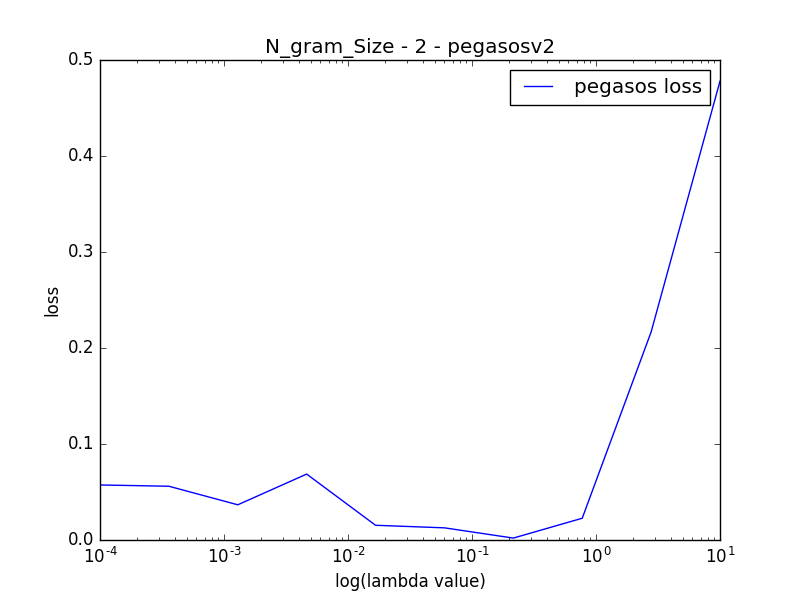
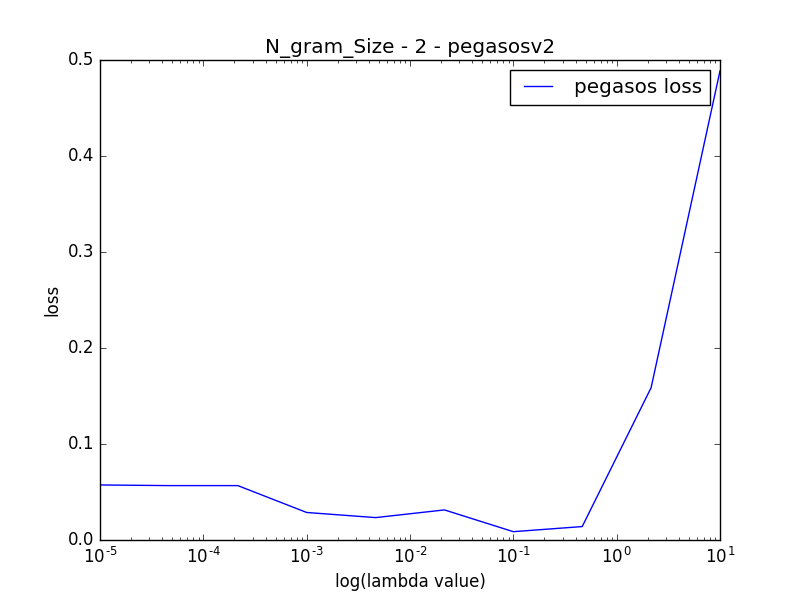
final submission

diff --git a/main.py b/main.py
@@ -10,7 +10,7 @@ def lambdaListBuider(num_lambdas):
     if num_lambdas == 1:
         return np.array([0.1])
     else:
-        lambda_reg_list = np.logspace(-1, 1, num_lambdas)
+        lambda_reg_list = np.logspace(-5, 1, num_lambdas)
         return np.array(lambda_reg_list)
 
 # Question 6.6
@@ -84,32 +84,39 @@ def compareprinter(weightsdictionary):
     for key in sorted(weightsdictionary)[:5]:
         print key, weightsdictionary[key]
 
-def runner(X_train, y_train, X_test, y_test, gram_size, num_lambdas, num_epochs, algo):
+def runner(X_train, y_train, X_test, y_test, gram_size, num_lambdas, num_epochs, algo, question):
     lambda_reg_list = lambdaListBuider(num_lambdas)
 
     # takes the data, algo type, and the parameters of the algo
     train_scores, w_list = testLambdaValues(X_train, y_train, lambda_reg_list, num_epochs, algo)
 
-    # Questin 6.5 - calculate the percent erro when predicting y using sign((w.T)x)
-    score_list = calcError(w_list, X_train, y_train)
-    for i in range(len(score_list)):
-        print "Lambda Value - ", lambda_reg_list[i], " the percent error was", score_list[i]
+    if question == "Question 8.1":
+        # Questin 6.5 - calculate the percent erro when predicting y using sign((w.T)x)
+        score_list = calcError(w_list, X_train, y_train)
+        for i in range(len(score_list)):
+            print "Lambda Value - ", lambda_reg_list[i], " the percent error was", score_list[i]
 
-    # Question 6.6 - searching for the best Lambda regularization value
-    bestLambda, bestw, min_Loss = getbestLambda_Thetas(score_list, lambda_reg_list, w_list)
+        # Question 6.6 - searching for the best Lambda regularization value
+        bestLambda, bestw, min_Loss = getbestLambda_Thetas(score_list, lambda_reg_list, w_list)
 
-    # plot the scores of the decision fucntion against the corresponding lamdba values
-    plotlambdascores(score_list, lambda_reg_list, 'N_gram_Size - '+str(gram_size)+' - '+algo)
+        # plot the scores of the decision fucntion against the corresponding lamdba values
+        plotlambdascores(score_list, lambda_reg_list, 'N_gram_Size - '+str(gram_size)+' - '+algo)
 
-    # Questin 7.1
-    misclassifiedList, misclassifiedList2 = classificationAnalysis(X_test, y_test, bestw)
-    sorted_list = sorted(misclassifiedList2, key=lambda x: x[3], reverse=True)
-    sorted_list2 = sorted(misclassifiedList, key=lambda x: x[3], reverse=True)
-    print "\n ####### misclassified #1\n", sorted_list[:10]
-    print "\n ####### misclassified #2\n", sorted_list2[:10]
+        # Questin 7.1
+        misclassifiedList, misclassifiedList2 = classificationAnalysis(X_test, y_test, bestw)
+        sorted_list = sorted(misclassifiedList2, key=lambda x: x[3], reverse=True)
+        sorted_list2 = sorted(misclassifiedList, key=lambda x: x[3], reverse=True)
+        print "\n ####### misclassified in example #1\n"
+        for i in sorted_list[:10]:
+            print i
+        print "\n ####### misclassified in example #2\n"
+        for i in sorted_list[:10]:
+            print i
 
-    # Question 6.4
-    return w_list
+        return min_Loss
+
+    elif question == "Question 6.4":
+        return w_list
 
 # Question 6.4
 def comparePegasosVersions(gram_size):
@@ -117,8 +124,8 @@ def comparePegasosVersions(gram_size):
     X_train, y_train, X_test, y_test = countTrainAndTest(gram_size)
 
     # execute the two versions of the Pegasos Algorithm
-    w = runner(X_train, y_train, X_test, y_test, gram_size, 1, 2, 'pegasos')
-    wv2 = runner(X_train, y_train, X_test, y_test, gram_size, 1, 2, 'pegasosv2')
+    w = runner(X_train, y_train, X_test, y_test, gram_size, 1, 2, 'pegasos', "Question 6.4")
+    wv2 = runner(X_train, y_train, X_test, y_test, gram_size, 1, 2, 'pegasosv2', "Question 6.4")
 
     print "\n ####### Top 5 Pegasos keys and weight values #1\n"
     compareprinter(w[0])
@@ -126,17 +133,34 @@ def comparePegasosVersions(gram_size):
     compareprinter(wv2[0])
 
 # Question 8.1
-def compareUniGramAndBiGram(gram_size, num_lambdas, num_epochs, algo):
+def compareUniGramAndBiGram(gram_size, num_lambdas, num_epochs, algo, question):
     X_train, y_train, X_test, y_test = countTrainAndTest(gram_size)
-    runner(X_train, y_train, X_test, y_test, gram_size, num_lambdas, num_epochs, algo)
+    min_Loss = runner(X_train, y_train, X_test, y_test, gram_size, num_lambdas, num_epochs, algo, question)
+    return min_Loss
 
 def main():
     # Question 6.4
-    # comparePegasosVersions(1)
+    print "\n ######### Question 6.4 ############# \n"
+    comparePegasosVersions(1)
 
     # Question 8.1
-    compareUniGramAndBiGram(1, 10, 2, 'pegasosv2')
-    # compareUniGramAndBiGram(2, 10, 2, 'pegasosv2')
+    print "\n ######### Question 8.1 ############# \n"
+    print "\n ######### Question 8.1 UNIGRAMS ############# \n"
+    min_Loss = compareUniGramAndBiGram(1, 10, 2, 'pegasosv2', "Question 8.1")
+    print "\n ######### Question 8.1 BIGRAMS ############# \n"
+    min_Loss_biGrams = compareUniGramAndBiGram(2, 10, 2, 'pegasosv2', "Question 8.1")
+
+    # Question 8.1 - continued
+    print "\n ######### Question 8.1 - continued ############# \n"
+    print "min loss -", min_Loss
+    print "min_Loss_biGrams -", min_Loss_biGrams
+    p = 1.0-(min_Loss_biGrams/min_Loss)
+    print "p -", p
+    standError = np.sqrt(p*(1-p)/1500)
+    print "standError -", standError
+    print p - (1.64*standError) - (0.5/1500)
+    print p + (1.64*standError) + (0.5/1500)
+
 
 if __name__ == "__main__":
     main()

diff --git a/load.py b/load.py
@@ -56,7 +56,7 @@ def shuffle_data(n):
 
     review = pos_review + neg_review
     random.shuffle(review)
-    train = review[:150]
+    train = review[:1500]
     test = review[1500:]
     return train, test
 
